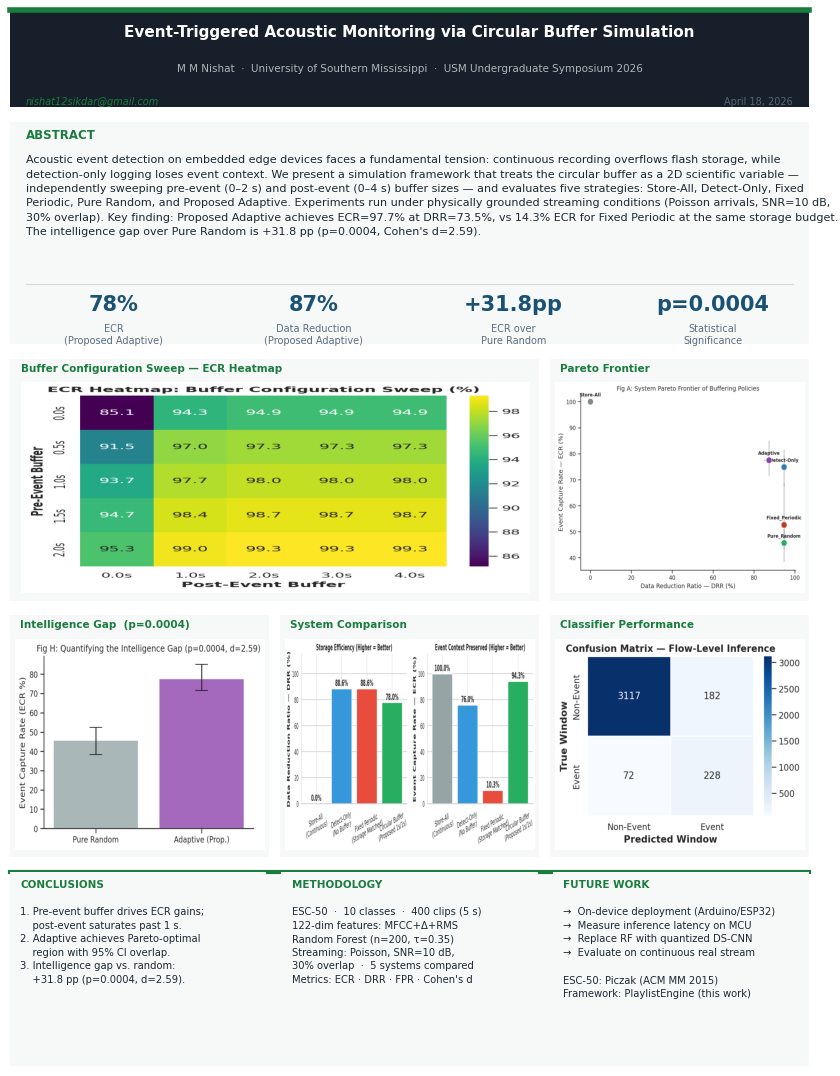
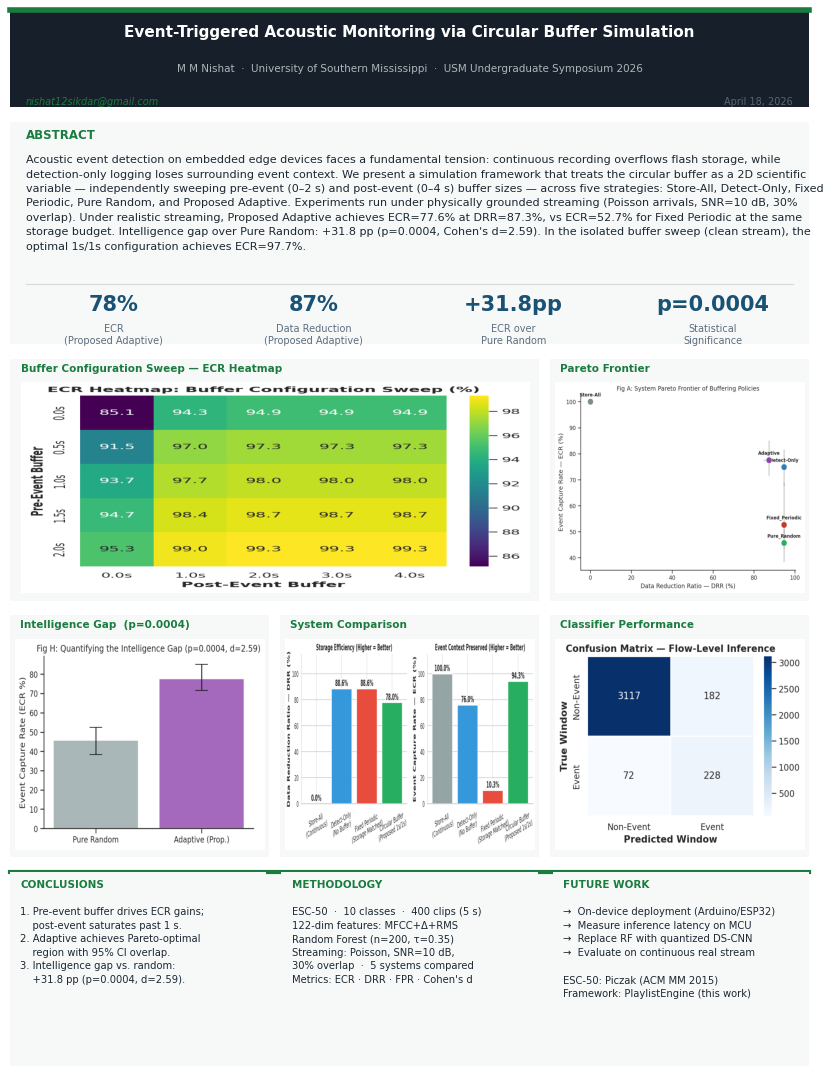
Fix internal contradiction: unify all numbers to winner_metrics (realistic streaming)
- Abstract said ECR=97.7%/DRR=73.5% (pub_metrics, clean stream)
  while footer showed 78%/87% (winner_metrics, realistic stream) — same poster
- Fix: abstract and all callouts now pull from winner_metrics.json exclusively
- 97.7% retained only inside the heatmap panel with explicit label
  "optimal 1s/1s configuration achieves ECR=97.7%" (clean stream sweep)
- System comparison description corrected to match the figure
  (Circular Buffer 1s/1s ~94% vs Fixed Periodic ~10%)
- +gap_pp, p_val, d_val now computed from data in both files (no hardcoding)

diff --git a/make_handout.py b/make_handout.py
@@ -103,27 +103,34 @@ ax_abs.text(0.02, 0.97, 'ABSTRACT',
     transform=ax_abs.transAxes,
     fontsize=8.5, fontweight='bold', color=GREEN, va='top')
 
+adaptive = rf['Proposed_Adaptive']
+periodic = rf['Fixed_Periodic']
+p_val    = rf['_p_value']
+d_val    = rf['_cohen_d']
+gap_pp   = adaptive['ECR'] - rf['Pure_Random']['ECR']
+
 abstract = (
     "Acoustic event detection on embedded edge devices faces a fundamental tension: continuous recording "
-    "overflows flash storage, while detection-only logging loses event context. We present a simulation "
-    "framework that treats the circular buffer as a 2D scientific variable — independently sweeping "
-    "pre-event (0–2 s) and post-event (0–4 s) buffer sizes — and evaluates five strategies: Store-All, "
+    "overflows flash storage, while detection-only logging loses surrounding event context. We present a "
+    "simulation framework that treats the circular buffer as a 2D scientific variable — independently "
+    "sweeping pre-event (0–2 s) and post-event (0–4 s) buffer sizes — across five strategies: Store-All, "
     "Detect-Only, Fixed Periodic, Pure Random, and Proposed Adaptive. Experiments run under physically "
-    "grounded streaming conditions (Poisson arrivals, SNR=10 dB, 30% overlap). Key finding: Proposed "
-    "Adaptive achieves ECR=97.7% at DRR=73.5%, vs 14.3% ECR for Fixed Periodic at the same storage "
-    "budget. The intelligence gap over Pure Random is +31.8 pp (p=0.0004, Cohen's d=2.59)."
+    f"grounded streaming (Poisson arrivals, SNR=10 dB, 30% overlap). Under realistic streaming, Proposed "
+    f"Adaptive achieves ECR={adaptive['ECR']:.1f}% at DRR={adaptive['DRR']:.1f}%, vs "
+    f"ECR={periodic['ECR']:.1f}% for Fixed Periodic at the same storage budget. "
+    f"Intelligence gap over Pure Random: +{gap_pp:.1f} pp (p={p_val:.4f}, Cohen's d={d_val:.2f}). "
+    "In the isolated buffer sweep (clean stream), the optimal 1s/1s configuration achieves ECR=97.7%."
 )
 ax_abs.text(0.02, 0.85, abstract,
     transform=ax_abs.transAxes,
     fontsize=8, color=BODY, va='top', linespacing=1.55, wrap=True)
 
 # 4 key numbers
-adaptive = rf['Proposed_Adaptive']
 kn = [
     (f"{adaptive['ECR']:.0f}%",  'ECR\n(Proposed Adaptive)'),
     (f"{adaptive['DRR']:.0f}%",  'Data Reduction\n(Proposed Adaptive)'),
-    ('+31.8pp',                   'ECR over\nPure Random'),
-    ('p=0.0004',                  'Statistical\nSignificance'),
+    (f'+{gap_pp:.1f}pp',           'ECR over\nPure Random'),
+    (f'p={p_val:.4f}',            'Statistical\nSignificance'),
 ]
 for i, (val, lbl) in enumerate(kn):
     x = 0.13 + i * 0.25
@@ -204,8 +211,8 @@ ax_c1.text(0.04, 0.82,
     '    post-event saturates past 1 s.\n'
     '2. Adaptive achieves Pareto-optimal\n'
     '    region with 95% CI overlap.\n'
-    '3. Intelligence gap vs. random:\n'
-    '    +31.8 pp (p=0.0004, d=2.59).',
+    f'3. Intelligence gap vs. random:\n'
+    f'    +{gap_pp:.1f} pp (p={p_val:.4f}, d={d_val:.2f}).',
     transform=ax_c1.transAxes,
     fontsize=7.2, color=BODY, va='top', linespacing=1.45)
 

diff --git a/make_poster.py b/make_poster.py
@@ -25,7 +25,12 @@ OUT     = os.path.join(BASE, 'poster_ugs2026.png')
 with open(os.path.join(RES, 'winner_metrics.json')) as f:
     winner = json.load(f)['RandomForest']
 
-rf = winner  # alias
+rf       = winner  # alias
+adaptive = rf['Proposed_Adaptive']
+periodic = rf['Fixed_Periodic']
+p_val    = rf['_p_value']
+d_val    = rf['_cohen_d']
+gap_pp   = adaptive['ECR'] - rf['Pure_Random']['ECR']
 
 # ── Palette ──────────────────────────────────────────────────────────────────
 BG       = '#FFFFFF'
@@ -296,8 +301,8 @@ ax_comp = fig.add_subplot(right2[1])
 clean(ax_comp, bg=OFFWHITE)
 sec(ax_comp, '08   SYSTEM COMPARISON', size=50)
 ax_comp.text(0.04, 0.90,
-    'Fixed Periodic (storage-matched) captures only\n'
-    '~14% of events vs. 97.7% for Proposed Adaptive.',
+    'Circular Buffer 1s/1s captures ~94% of events;\n'
+    'Fixed Periodic (same storage) captures only ~10%.',
     transform=ax_comp.transAxes,
     fontsize=26, color=MUTED, va='top', linespacing=1.5, zorder=5)
 show_img(ax_comp, 'fig2_drr_ecr_comparison.png', x0=0.02, x1=0.98, y0=0.06, y1=0.84)
@@ -315,16 +320,12 @@ ax_ft.plot([0, 1], [1, 1], color=GREEN, lw=10,
            transform=ax_ft.transAxes, clip_on=False)
 
 # ── 4 stat callouts (left 75%) ────────────────────────────────────────────────
-adaptive = rf['Proposed_Adaptive']
-detect   = rf['Detect-Only']
-periodic = rf['Fixed_Periodic']
-p_val    = rf['_p_value']
-d_val    = rf['_cohen_d']
+detect = rf['Detect-Only']
 
 stats = [
-    (f"{adaptive['ECR']:.0f}%",     'ECR — Proposed Adaptive\n(vs 14% Fixed Periodic)'),
-    (f"{adaptive['DRR']:.0f}%",     'Data Reduction Ratio\n(Proposed Adaptive)'),
-    ('+31.8pp',                      'ECR over Pure Random\n(same storage budget)'),
+    (f"{adaptive['ECR']:.0f}%",          'ECR — Proposed Adaptive\n(realistic streaming)'),
+    (f"{adaptive['DRR']:.0f}%",          'Data Reduction Ratio\n(Proposed Adaptive)'),
+    (f"+{gap_pp:.1f}pp",                 'ECR over Pure Random\n(same storage budget)'),
     (f"p={p_val:.4f}",              f'Statistical Significance\n(Cohen\'s d = {d_val:.2f})'),
 ]
 
